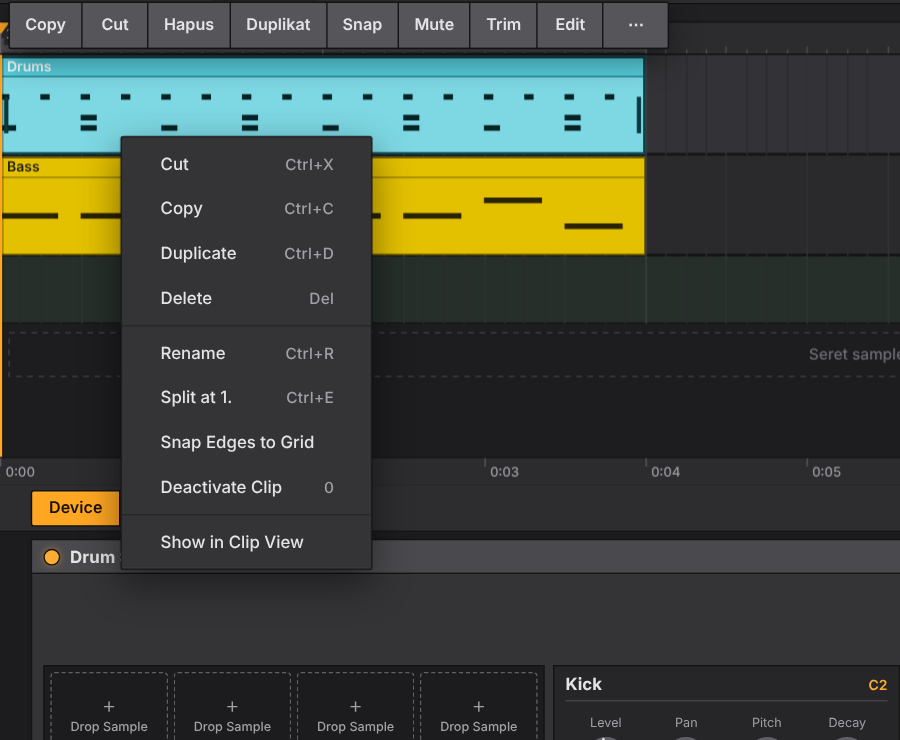
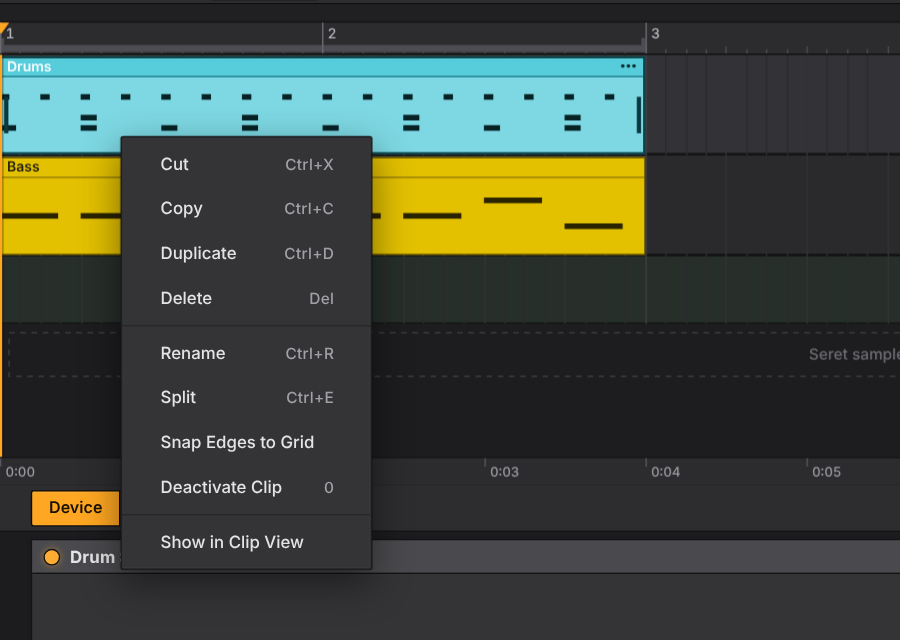
Arrangement: one way to clip commands - the clip action bar is gone
- tapping a clip only selects it (as in Live); tapping the selected clip, its ⋯ in the title strip or a right click opens the clip's
  context menu, the single place for Cut / Copy / Duplicate / Delete / Rename / Split / Snap / Deactivate / Unlink / Stretch / Clip View
- the selected clip shows a ⋯ at the right of its title strip

Claude-Session: https://claude.ai/code/session_016R99TikgULnubixUN3BKdn

diff --git a/js/timeline.js b/js/timeline.js
@@ -220,6 +220,7 @@ function drawClip(t, c, y, hh) {
   }
   if (isSel) {
     ctx.strokeStyle = shade(t.color, 0.65); ctx.lineWidth = 1.5; ctx.strokeRect(x + 0.75, y0 + 0.75, w - 1.5, h0 - 1.5);
+    if (tall && w > 44) { const mx = Math.min(x + w, CW) - 12, my = y0 + hd / 2; ctx.fillStyle = shade(t.color, 0.75); for (const d of [-4, 0, 4]) { ctx.beginPath(); ctx.arc(mx + d, my, 1.3, 0, 6.2832); ctx.fill(); } }   // ⋯ : the clip's context menu
     const hl = Math.min(26, h0 - hd - 10), hy = y0 + hd + (h0 - hd - hl) / 2, st = stretchMode && t.kind === 'audio';   // edge grips for touch: pills on both ends
     if (hl > 6 && w > 26) {
       ctx.fillStyle = shade(t.color, 0.7); ctx.fillRect(x + 3, hy, 3, hl);                              // edge grips: slim bars in the clip's ink
@@ -679,6 +680,7 @@ function hit(x, y) {
         const spt = 60 / state.bpm / PPQ, y0 = rowY(i) + 1, top = y0 + (rh(i) >= 40 ? 14 : 0) + 5, fx = tx(c.start) + Math.max(5, Math.min(wpx / 2, (c.fadeIn || 0) / spt * view.ppt)), gx = tx(c.start + c.len) - Math.max(5, Math.min(wpx / 2, (c.fadeOut || 0) / spt * view.ppt));
         if (Math.abs(y - top) < 11) { if (Math.abs(x - fx) < 12) return { type: 'clip', i, c, tick, zone: 'fadeIn' }; if (Math.abs(x - gx) < 12) return { type: 'clip', i, c, tick, zone: 'fadeOut' }; }
       }
+      if (state.sel.clip === c.id && rh(i) >= 40 && wpx > 44) { const mx = Math.min(tx(c.start + c.len), CW) - 12, my = rowY(i) + 8; if (Math.abs(x - mx) < 13 && Math.abs(y - my) < 11) return { type: 'clip', i, c, tick, zone: 'menu' }; }
       const edgeR = tx(c.start + c.len) - x < hz, edgeL = !edgeR && x - tx(c.start) < hz;
       return { type: 'clip', i, c, tick, zone: edgeR ? 'right' : edgeL ? 'left' : 'body' };
     }
@@ -725,28 +727,6 @@ export function clipKey(code, mod) {
   if (mod && code === 'KeyE') { checkpoint(); P.splitClip(i, c.id, snapT(state.pos)); return true; }
   if (!mod && (code === 'Digit0' || code === 'Numpad0')) { checkpoint(); P.setClipsMuted([{ i, c }], !c.muted); invalidate(); return true; }
   return false;
-}
-function clipBar(i, c, tick) {
-  const r = canvasOrigin(), t = state.tracks[i];
-  const x = r.left + clamp(tx(c.start), 0, Math.max(0, CW - 250)), y = r.top + Math.max(RULER, rowY(i)) - 38;
-  bar([
-    { label: 'Copy', fn: () => copyList([{ i, c }]) },
-    { label: 'Cut', fn: () => { copyList([{ i, c }]); checkpoint(); P.removeClip(i, c.id); } },
-    { label: 'Delete', fn: () => { checkpoint(); P.removeClip(i, c.id); } },
-    { label: 'Duplicate', fn: () => { checkpoint(); P.duplicateClip(i, c.id); invalidate(); } },     // v65 (FL Studio Mobile: copy + paste next to the clip in one tap)
-    { label: 'Snap', fn: () => {                                                                       // v65: snap both clip edges to the grid
-      const a = Math.max(0, snapT(c.start)), e = snapT(c.start + c.len);
-      if (a === c.start && e - a === c.len) return toast('Tepi klip sudah pas di grid.');
-      if (e - a < 1) return toast('Klip terlalu pendek untuk di-snap.');
-      checkpoint(); c.len = e - a; c.start = a; P.syncClips(i); P.touchClips(i); invalidate();
-    } },
-    { label: c.muted ? 'Unmute' : 'Mute', fn: () => { checkpoint(); P.setClipsMuted([{ i, c }], !c.muted); invalidate(); } },
-    { label: 'Split', fn: () => { checkpoint(); P.splitClip(i, c.id, snapT(tick)); } },
-    ...(c.notes && P.loopOf(c) ? [{ label: 'Unlink', fn: () => { checkpoint(); P.bakeLoop(c, i); P.emit('clips'); invalidate(); toast('Pengulangan jadi not biasa.', 1600); } }] : []),   // FL Studio Mobile "Unlink loop"
-    ...(t.kind === 'audio' ? [{ label: stretchMode ? 'Stretch \u2713' : 'Stretch', fn: () => { stretchMode = !stretchMode; toast(stretchMode ? 'Mode stretch: tarik ujung kanan klip audio untuk meregangkan (pitch tetap).' : 'Mode stretch mati: tarik ujung kanan untuk memotong.', 3200); invalidate(); } }] : []),
-    { label: 'Edit', fn: () => hooks.openEditor && hooks.openEditor() },
-    { label: '\u22EF', fn: () => clipMenu(i, c, tick) },                                             // the full Live context menu
-  ], x, y);
 }
 
 function selMenu() {
@@ -1032,7 +1012,8 @@ function setup() {
           return invalidate();
         case 'clip':
           if (msel.size) { if (msel.has(t.c.id)) msel.delete(t.c.id); else msel.add(t.c.id); P.selectClip(t.i, t.c.id); updateBar(); return invalidate(); }   // a selection exists: taps add / remove clips
-          P.selectClip(t.i, t.c.id); clipBar(t.i, t.c, t.tick); return invalidate();
+          if (state.sel.clip === t.c.id || t.zone === 'menu') { const r = canvasOrigin(); clipMenu(t.i, t.c, t.tick, r.left + x, r.top + y); return invalidate(); }   // tap the selected clip (or its ⋯) = its one context menu
+          P.selectClip(t.i, t.c.id); return invalidate();                                  // first tap only selects, as in Live
         case 'empty': if (msel.size) { msel.clear(); updateBar(); } sel = null; if (t.i >= 0 && t.i < state.tracks.length) { state.sel.clip = null; P.selectTrack(t.i); } return invalidate();
       }
     },
